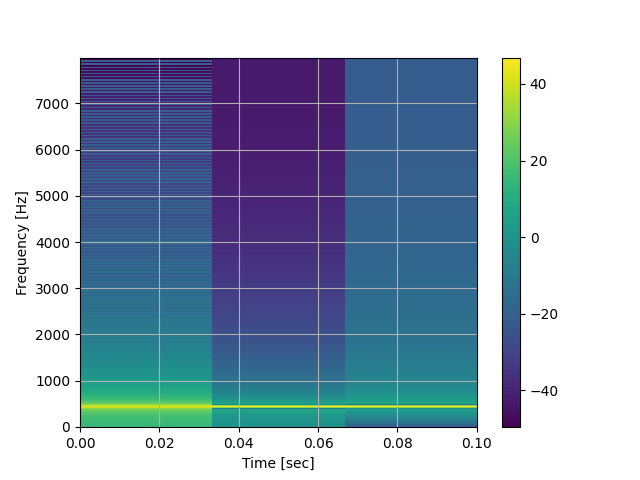
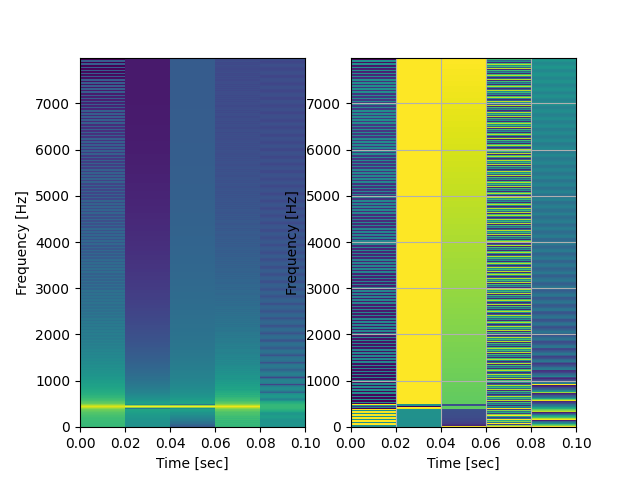
fix miss

diff --git a/skotsugi/chapter04/q04.py b/skotsugi/chapter04/q04.py
@@ -10,7 +10,6 @@ def hamming(N: int):
 
 if __name__ == "__main__":
   import matplotlib.pyplot as plt
-  from scipy import signal
   from q03 import stft
   
   L = 1000
@@ -31,9 +30,16 @@ if __name__ == "__main__":
   A = 20*np.log10(np.abs(fl))
   ang = np.angle(fl)
 
-  plt.pcolormesh(t, f, A)
-  plt.colorbar(orientation="vertical")
+  fig, ax = plt.subplots(1, 2)
+
+  ax[0].pcolormesh(t, f, A)
+  ax[0].set_ylabel('Frequency [Hz]')
+  ax[0].set_xlabel('Time [sec]')
+
+  ax[1].pcolormesh(t, f, ang)
+  ax[1].set_ylabel('Frequency [Hz]')
+  ax[1].set_xlabel('Time [sec]')
+
+  # fig.colorbar(orientation="vertical")
   plt.grid()
-  plt.ylabel('Frequency [Hz]')
-  plt.xlabel('Time [sec]')
   plt.savefig('skotsugi/chapter04/q04.png')

diff --git a/skotsugi/chapter04/q02.py b/skotsugi/chapter04/q02.py
@@ -1,13 +1,19 @@
 import numpy as np
 from q01 import zero_padding
 
-def divide_flame(L: int, S: int, x):
+def divide_frame(L: int, S: int, x):
   # エラー処理
   if L < S:
     raise Exception('Shift size must be smaller than window size.')
   
-  N = len(x)
   x_tilde = zero_padding(L, S, x)
+  N = len(x_tilde)
 
-  T = np.arange(int((N - 1) / S))
-  return [ x_tilde[t*S:t*S+L] for t in T ]
+  T = np.arange((N - L) // S + 1)
+  return np.array([ x_tilde[t*S:t*S+L] for t in T ])
+
+if __name__ == "__main__":
+  x = np.ones(5)
+  print(x)
+  print(zero_padding(4, 3, x))
+  print(divide_frame(4, 3, x))

diff --git a/skotsugi/chapter04/q01.py b/skotsugi/chapter04/q01.py
@@ -8,12 +8,17 @@ def zero_padding(L: int, S: int, x):
   # 出力信号長の算出
   N = len(x)
   M = L - S    # > 0
-  A = N + M*2
-  B = int(A / S) + 1 # 条件を満たす最小のSの倍数
-  C = S * B
+  A = N + M
+  B = A // S + 1 # 条件を満たす最小のSの倍数
+  C = S * B + M
 
   # 出力信号
   tilde = np.zeros(C) # 全体をゼロ埋め
   tilde[M:M+N] = x
 
   return tilde
+
+if __name__ == "__main__":
+  x = np.ones(5)
+  print(x)
+  print(zero_padding(4, 3,))

diff --git a/skotsugi/chapter04/q03.py b/skotsugi/chapter04/q03.py
@@ -1,12 +1,12 @@
 import numpy as np
-from q02 import divide_flame
+from q02 import divide_frame
 
 def stft(L: int, S: int, w, x):
   # エラー処理
   if L < S:
     raise Exception('Shift size must be smaller than window size.')
 
-  flames = divide_flame(L, S, x)
+  flames = divide_frame(L, S, x)
 
   ffted = np.fft.rfft(flames*w).T
 
